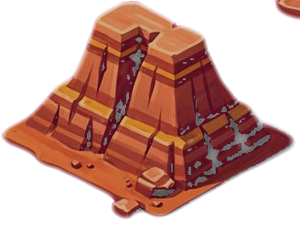
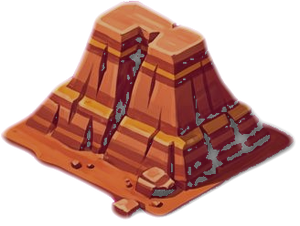
Game: round 7 map and battle fixes (the war scene picks its layout by the screen's shape, so a phone on its side gets the wide one; the sea is a flat rectangle instead of a 160 MB texture; stray block removed from the mesa art; the winner's bar no longer looks like a near-loss; small armies draw onl

Changed region(s): [[0.9, 0.0, 1.0, 0.0929]]

diff --git a/game/src/scenes/BattleScene.js b/game/src/scenes/BattleScene.js
@@ -27,7 +27,7 @@ export class BattleScene extends Phaser.Scene {
     const W = this.scale.width, H = this.scale.height, d = DPR();
     this.alive = true;
     this.run = this.token;
-    const portrait = window.innerWidth < 900;
+    const portrait = W <= H * 1.1;   // by the shape of the screen, not its width: a phone turned on its side is a wide screen
     this.portrait = portrait;
     const a = this.att, b = this.def;
     this.result = this.report ? this.report.result : powers(this.send, b.units, b.wall, b.tower, false);
@@ -154,7 +154,7 @@ export class BattleScene extends Phaser.Scene {
   addMass(side, n) {
     const W = this.scale.width, H = this.scale.height, sign = side === 'L' ? 1 : -1;
     const total = n.units.reduce((t, v) => t + v, 0);
-    const count = total <= 0 ? 0 : Phaser.Math.Clamp(Math.round(Math.sqrt(total) * 1.3), 6, 24);
+    const count = total <= 0 ? 0 : Math.min(total, Phaser.Math.Clamp(Math.round(Math.sqrt(total) * 1.3), 6, 24));
     const order = [0, 2, 3, 1], sum = order.reduce((t, k) => t + (n.units[k] || 0), 0) || 1;
     let types = [];
     for (const k of order) types.push(...Array(Math.round(count * (n.units[k] || 0) / sum)).fill(k));
@@ -245,7 +245,7 @@ export class BattleScene extends Phaser.Scene {
       this.tweens.add({ targets: m, angle: (side === 'L' ? -1 : 1) * 80, y: m.y + 6 * d, alpha: 0.35, duration: 420, ease: 'Quad.in' });
     }
     const el = document.querySelector(`[data-units="${side}"]`);
-    if (el && this.showUnits) el.textContent = `${(this.start[side] - Math.round(this.loss[side] * this.prog[side])).toLocaleString()} units`;
+    if (el && this.showUnits) { const left = this.start[side] - Math.round(this.loss[side] * this.prog[side]); el.textContent = `${left.toLocaleString()} ${left === 1 ? 'unit' : 'units'}`; }
   }
 
   hud() {
@@ -255,9 +255,9 @@ export class BattleScene extends Phaser.Scene {
       <div class="battle-top">
         <button class="back" data-back>‹ Back</button><button class="back fast" data-fast>×1</button>
         <div class="vs">
-          <div class="side l"><b style="color:${hex(a.color)}">${esc(a.name)}</b><div class="bar"><i data-hp="L" style="background:${hex(a.color)}"></i></div><small>attack ${this.result.attack.toLocaleString()}</small><small data-units="L">${this.showUnits ? this.start.L.toLocaleString() + ' units' : ''}</small></div>
+          <div class="side l"><b style="color:${hex(a.color)}">${esc(a.name)}</b><div class="bar"><i data-hp="L" style="background:${hex(a.color)}"></i></div><small>attack ${this.result.attack.toLocaleString()}</small><small data-units="L">${this.showUnits ? this.start.L.toLocaleString() + (this.start.L === 1 ? ' unit' : ' units') : ''}</small></div>
           <div class="x">VS</div>
-          <div class="side r"><b style="color:${hex(b.color)}">${esc(b.name)}</b><div class="bar"><i data-hp="R" style="background:${hex(b.color)}"></i></div><small>defense ${this.result.defense.toLocaleString()}</small><small data-units="R">${this.showUnits ? this.start.R.toLocaleString() + ' units' : ''}</small></div>
+          <div class="side r"><b style="color:${hex(b.color)}">${esc(b.name)}</b><div class="bar"><i data-hp="R" style="background:${hex(b.color)}"></i></div><small>defense ${this.result.defense.toLocaleString()}</small><small data-units="R">${this.showUnits ? this.start.R.toLocaleString() + (this.start.R === 1 ? ' unit' : ' units') : ''}</small></div>
         </div>
       </div>
       <div class="banner" data-banner></div>
@@ -335,7 +335,7 @@ export class BattleScene extends Phaser.Scene {
     const winner = success ? 'L' : 'R', loser = success ? 'R' : 'L';
     const hits = 5; // blows the loser takes
     const ratio = Math.min(0.85, Math.max(0.25, success ? this.result.defense / Math.max(1, this.result.attack) : this.result.attack / Math.max(1, this.result.defense)));
-    const per = { [loser]: 1 / (hits + 1), [winner]: ratio / hits };
+    const per = { [loser]: 1 / (hits + 1), [winner]: Math.min(0.5, ratio * 0.6) / hits };   // the winner's bar dips but never looks like a near-loss
     const power = { L: this.result.attack, R: this.result.defense };
     for (let i = 0; i < hits * 2 + 1; i++) {
       // the winner's army lands a blow, then the loser's answers (one fewer for the loser)

diff --git a/game/src/scenes/MapScene.js b/game/src/scenes/MapScene.js
@@ -30,7 +30,8 @@ export class MapScene extends Phaser.Scene {
     for (const n of this.world.nations) for (const [x, y] of n.plots) this.owner.set(`${x},${y}`, n);
 
     const pad = 2200;
-    this.add.tileSprite(-pad, -pad, g.size + pad * 2, g.size + pad * 2, 'g_water').setOrigin(0).setTint(0x949494).setDepth(-2);
+    // the sea beyond the painted world: one flat dark rectangle (a texture this big would be 160 MB and fail on weaker phones)
+    this.add.rectangle(-pad, -pad, g.size + pad * 2, g.size + pad * 2, 0x121616).setOrigin(0).setDepth(-2);
     this.add.image(0, 0, 'ground').setOrigin(0).setDepth(0);
     this.shimmer = this.add.image(0, 0, 'shimmer').setOrigin(0).setDepth(1).setBlendMode(Phaser.BlendModes.ADD).setAlpha(0.8);
     this.tweens.add({ targets: this.shimmer, x: { from: -5, to: 5 }, y: { from: 3, to: -3 }, alpha: { from: 0.45, to: 0.95 }, duration: 2600, yoyo: true, repeat: -1, ease: 'Sine.inOut' });
